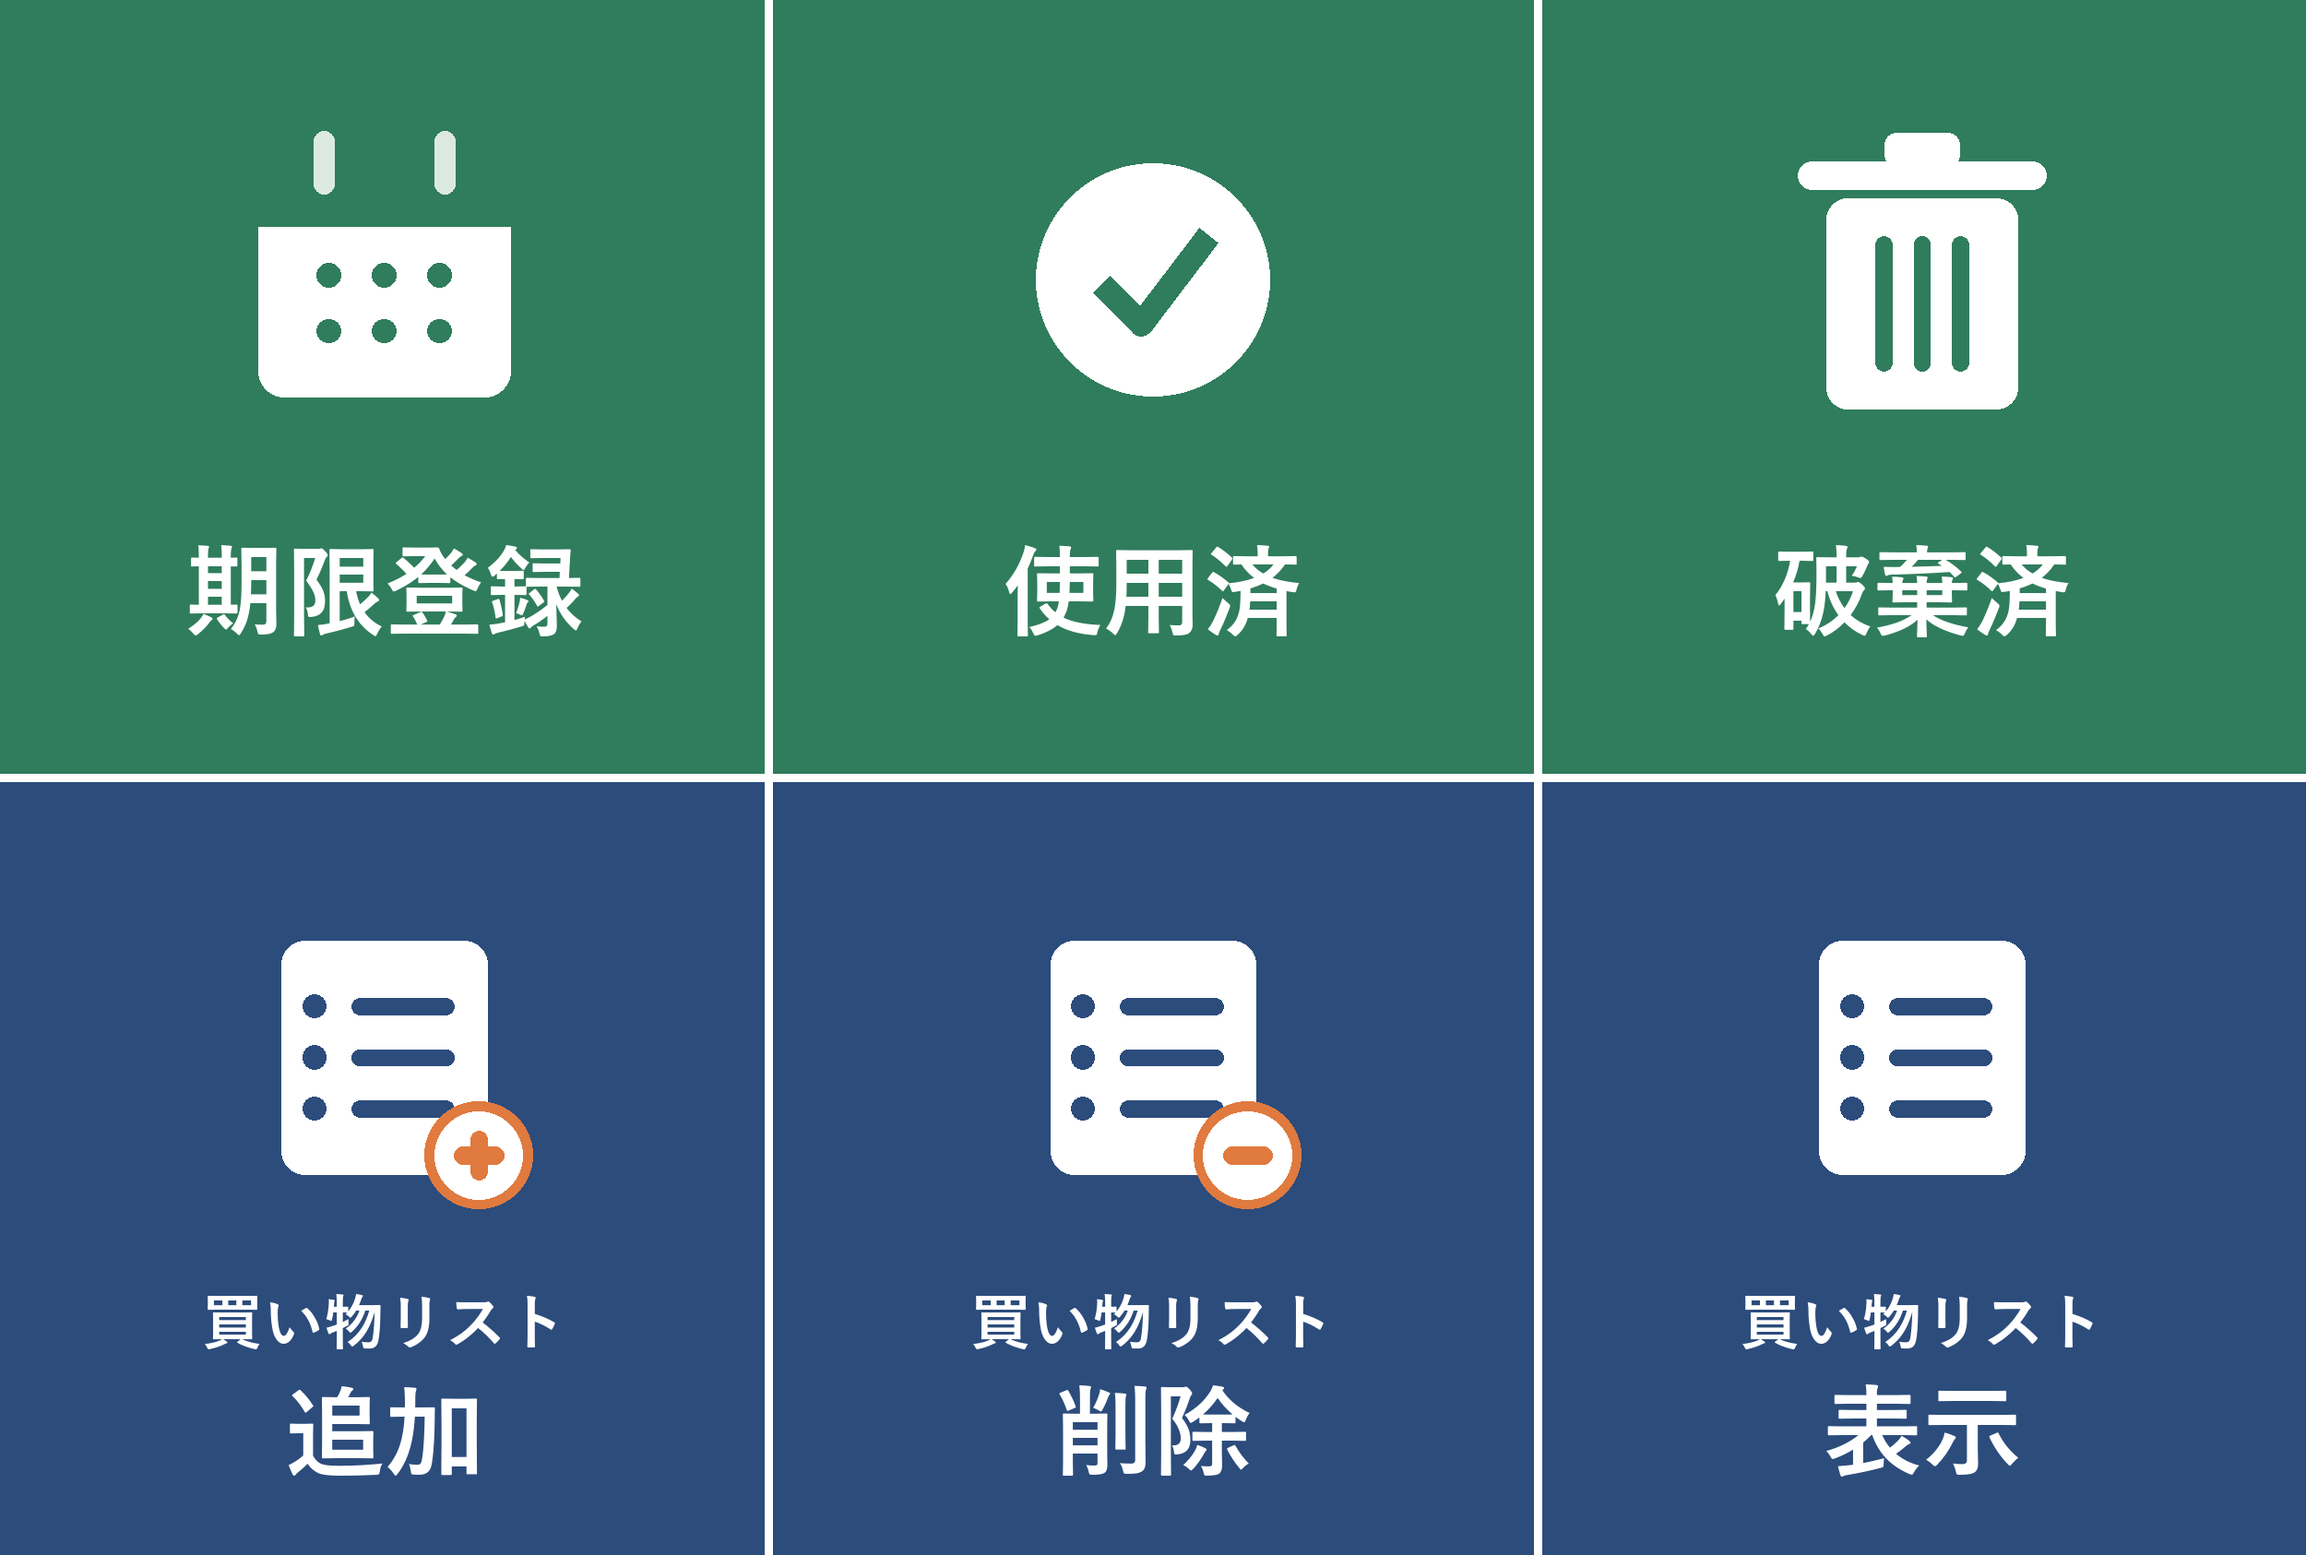
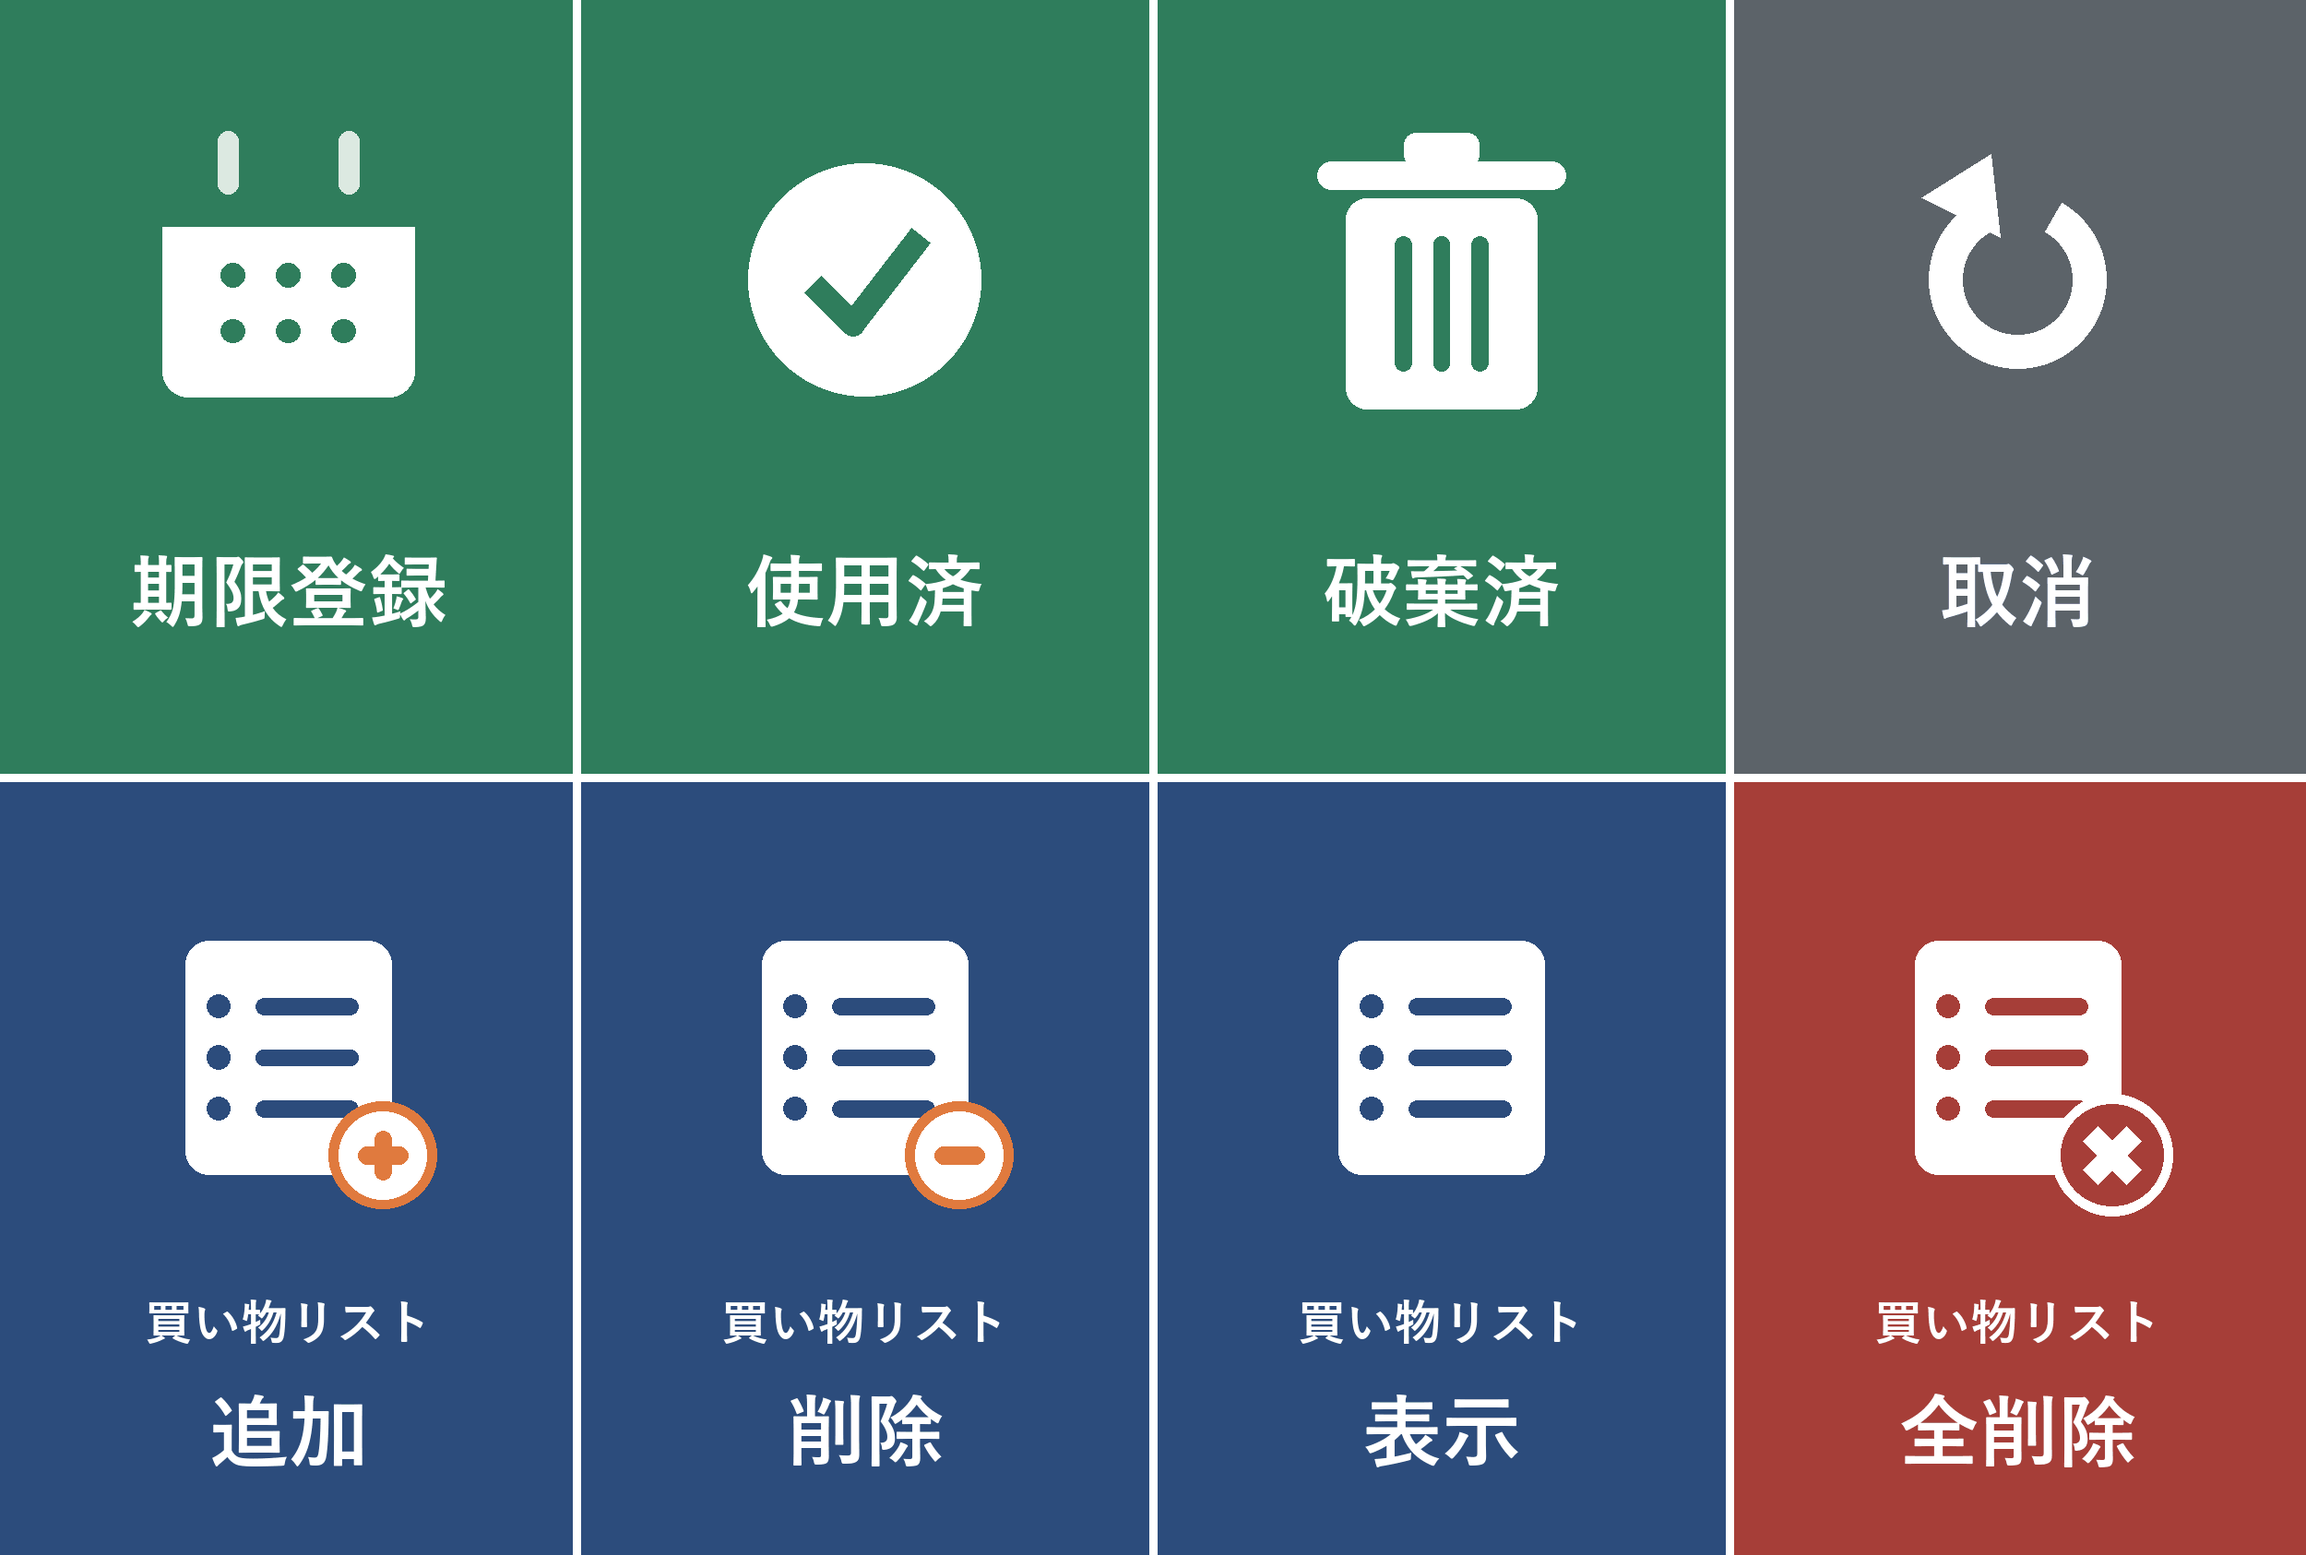
Add undo and clear-list buttons to the rich menu
リッチメニューを2x3から2x4にして、上段の右に「取消」、下段の右に
「買い物リスト全削除」を足す。どちらも押すとすぐ実行される。

全削除は行を消さず「購入済」にするだけで、shopClear_ が LAST_OP を
記録するので、押し間違えても隣の「取消」で戻せる。

取消は在庫にも買い物リストにも効くので、どちらの色にも寄せず灰にした。
全削除は戻せるとはいえ影響が大きいので、押す前に気づけるよう赤にした。

送るテキストは既存の入口をそのまま使う。取消は handleText_ の固定
コマンド、全削除は SHOP_CLEAR_CMD に当たる。いずれも接頭辞コマンドには
横取りされない（空白を含まないため parseCommand_ が null を返す）。

diff --git a/04-food-expiry/richmenu.py b/04-food-expiry/richmenu.py
@@ -1,9 +1,11 @@
 # -*- coding: utf-8 -*-
 """リッチメニュー画像を生成する。既存 icons/ の配色（緑=在庫 / 紺=買い物リスト）に合わせる。"""
+import math
+
 from PIL import Image, ImageDraw, ImageFont
 
 W, H = 2500, 1686
-COLS = [(0, 833), (833, 834), (1667, 833)]   # (x, width) 合計 2500
+COLS = [(0, 625), (625, 625), (1250, 625), (1875, 625)]   # (x, width) 合計 2500
 ROWS = [(0, 843), (843, 843)]
 
 GREEN      = (47, 125, 92)     # #2F7D5C 在庫
@@ -11,12 +13,15 @@ GREEN_DARK = (30, 91, 65)      # #1E5B41
 BLUE       = (44, 76, 124)     # #2C4C7C 買い物リスト
 BLUE_DARK  = (32, 56, 92)
 ORANGE     = (224, 122, 62)    # #E07A3E アクセント
+GRAY       = (92, 99, 105)     # 取消。在庫にも買い物リストにも属さないので中間色
+GRAY_DARK  = (66, 72, 77)
+RED        = (166, 62, 56)     # 全削除。戻せるが影響が大きいので警告色
 WHITE      = (255, 255, 255)
 LINE       = (255, 255, 255)
 
 FONT = "C:/Windows/Fonts/YuGothB.ttc"
-label_font = ImageFont.truetype(FONT, 108, index=0)
-sub_font   = ImageFont.truetype(FONT, 66, index=0)
+label_font = ImageFont.truetype(FONT, 86, index=0)
+sub_font   = ImageFont.truetype(FONT, 52, index=0)
 
 img = Image.new("RGB", (W, H), WHITE)
 d = ImageDraw.Draw(img)
@@ -95,6 +100,36 @@ def icon_list(cx, cy, s, fg, bg, mark=None):
                                 radius=t, fill=ORANGE)
 
 
+def icon_undo(cx, cy, s, fg, bg):
+    """左へ戻る矢印＝取消"""
+    r = s * 0.38
+    lw = int(s * 0.15)
+    # 上side を開けた円弧。PIL の角度は 0=右, 90=下, 270=上
+    d.arc([cx - r, cy - r, cx + r, cy + r], start=300, end=600, fill=fg, width=lw)
+
+    # 円弧の左上の端に矢じりを置く
+    px = cx + r * math.cos(math.radians(240))
+    py = cy + r * math.sin(math.radians(240))
+    a = s * 0.21
+    d.polygon([(px - a * 1.05, py - a * 0.10),
+               (px + a * 0.35, py - a * 1.00),
+               (px + a * 0.55, py + a * 0.70)], fill=fg)
+
+
+def icon_clear(cx, cy, s, fg, bg):
+    """リストに × ＝買い物リストの全削除"""
+    icon_list(cx, cy, s, fg, bg)
+    w, h = s * 0.88, s
+    bx, by, br = cx + w * 0.46, cy + h * 0.42, s * 0.26
+    d.ellipse([bx - br, by - br, bx + br, by + br], fill=WHITE)
+    d.ellipse([bx - br * 0.84, by - br * 0.84, bx + br * 0.84, by + br * 0.84], fill=bg)
+    t = br * 0.15
+    for a, b in (((-1, -1), (1, 1)), ((-1, 1), (1, -1))):
+        d.line([(bx + a[0] * br * 0.36, by + a[1] * br * 0.36),
+                (bx + b[0] * br * 0.36, by + b[1] * br * 0.36)],
+               fill=WHITE, width=int(t * 2.4))
+
+
 # ---------------------------------------------------------------- 配置
 
 CELLS = [
@@ -102,9 +137,13 @@ CELLS = [
     (0, 0, "期限登録", None,       icon_calendar, GREEN, GREEN_DARK),
     (1, 0, "使用済",   None,       icon_check,    GREEN, GREEN_DARK),
     (2, 0, "破棄済",   None,       icon_trash,    GREEN, GREEN_DARK),
+    # 取消は在庫にも買い物リストにも効くので、どちらの色にも寄せない
+    (3, 0, "取消",     None,       icon_undo,     GRAY,  GRAY_DARK),
     (0, 1, "買い物リスト", "追加",  lambda *a: icon_list(*a, mark="+"), BLUE, BLUE_DARK),
     (1, 1, "買い物リスト", "削除",  lambda *a: icon_list(*a, mark="-"), BLUE, BLUE_DARK),
     (2, 1, "買い物リスト", "表示",  icon_list,                          BLUE, BLUE_DARK),
+    # 全削除は取消で戻せるが影響が大きいので、押す前に気づけるよう色を変える
+    (3, 1, "買い物リスト", "全削除", icon_clear,                        RED,  BLUE_DARK),
 ]
 
 for col, row, title, sub, icon, bg, fg in CELLS:

diff --git a/04-food-expiry/SETUP.md b/04-food-expiry/SETUP.md
@@ -327,13 +327,20 @@ Botに `id` と送って返ってきた userId を、スクリプトプロパテ
 「牛乳使った（在庫の消費）」の取り違えが起きません。
 
 ```
-┌──────────┬──────────┬──────────┐
-│  期限登録  │  使用済   │  破棄済   │
-├──────────┼──────────┼──────────┤
-│ 買い物リスト │ 買い物リスト │ 買い物リスト │
-│    追加   │    削除   │    表示   │
-└──────────┴──────────┴──────────┘
+┌────────┬────────┬────────┬────────┐
+│ 期限登録 │ 使用済  │ 破棄済  │  取消   │
+├────────┼────────┼────────┼────────┤
+│ 買い物  │ 買い物  │ 買い物  │ 買い物  │
+│ リスト  │ リスト  │ リスト  │ リスト  │
+│  追加   │  削除   │  表示   │ 全削除  │
+└────────┴────────┴────────┴────────┘
 ```
+
+上段の3つと下段の左2つは、押すと入力欄に接頭辞が入るだけです。
+**「取消」「表示」「全削除」は押すとすぐ実行されます。**
+
+全削除は行を消さず「購入済」にするだけなので、押し間違えても
+「取消」で元に戻せます。
 
 ## 1. 画像のファイルを追加する
 
